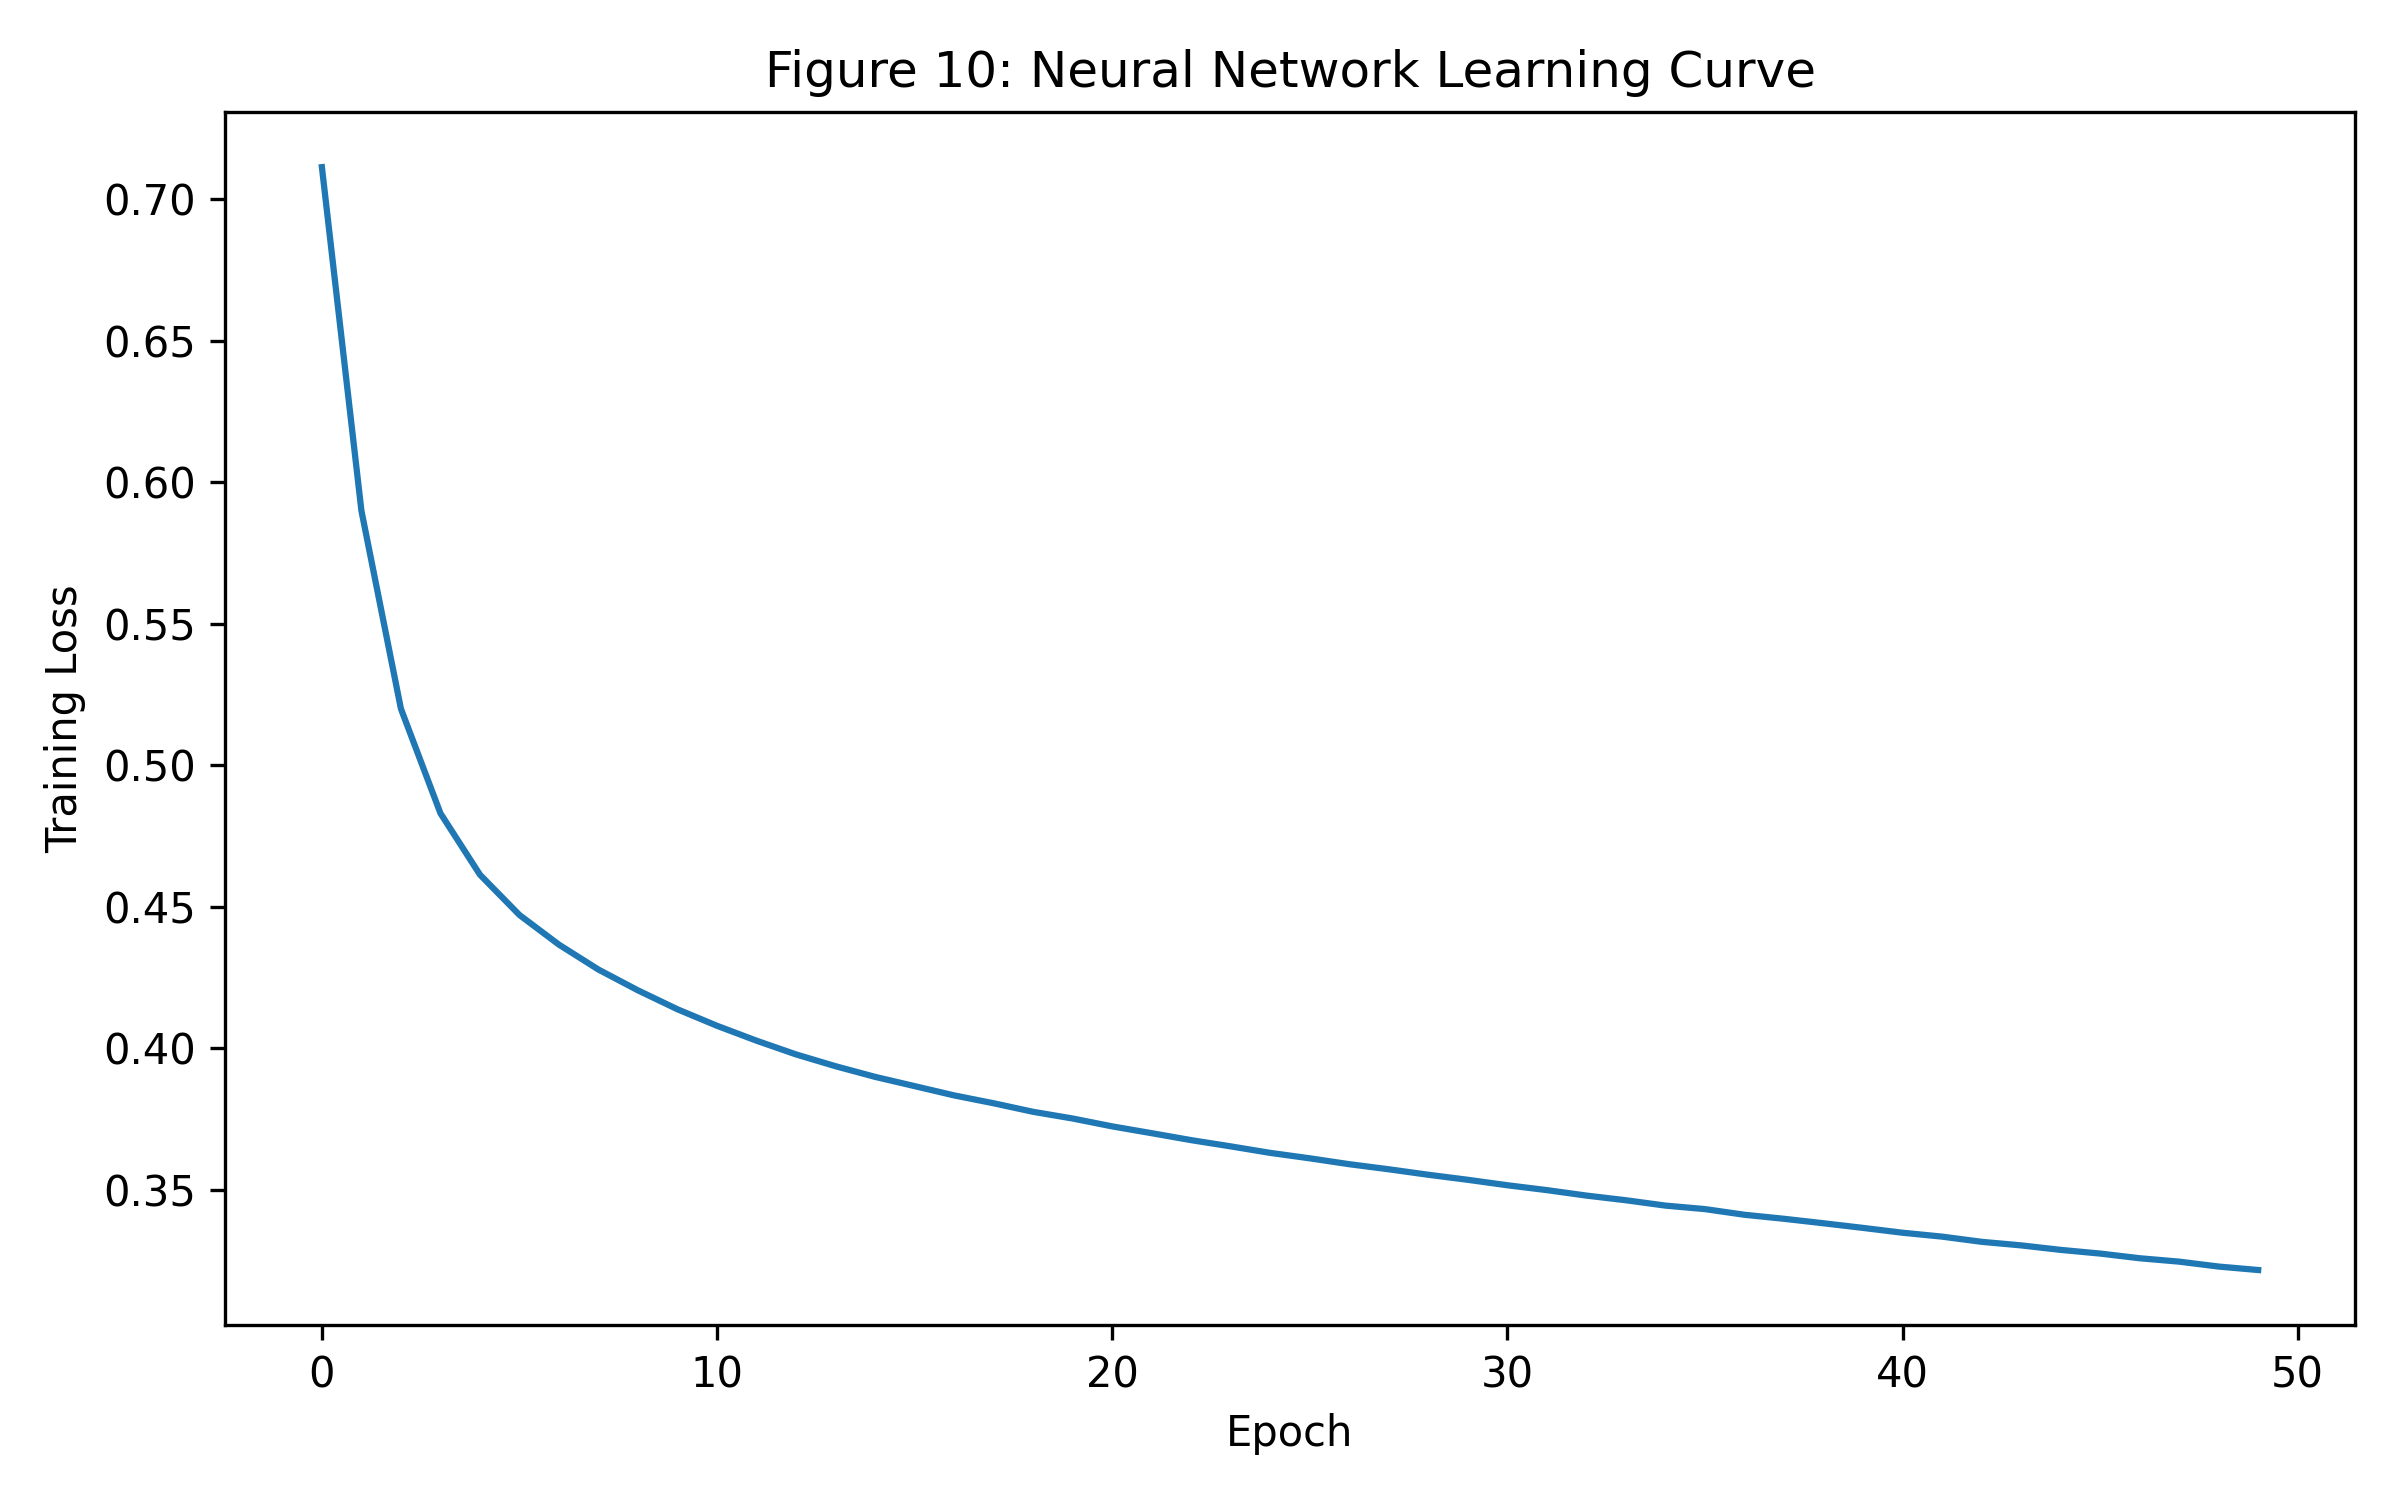
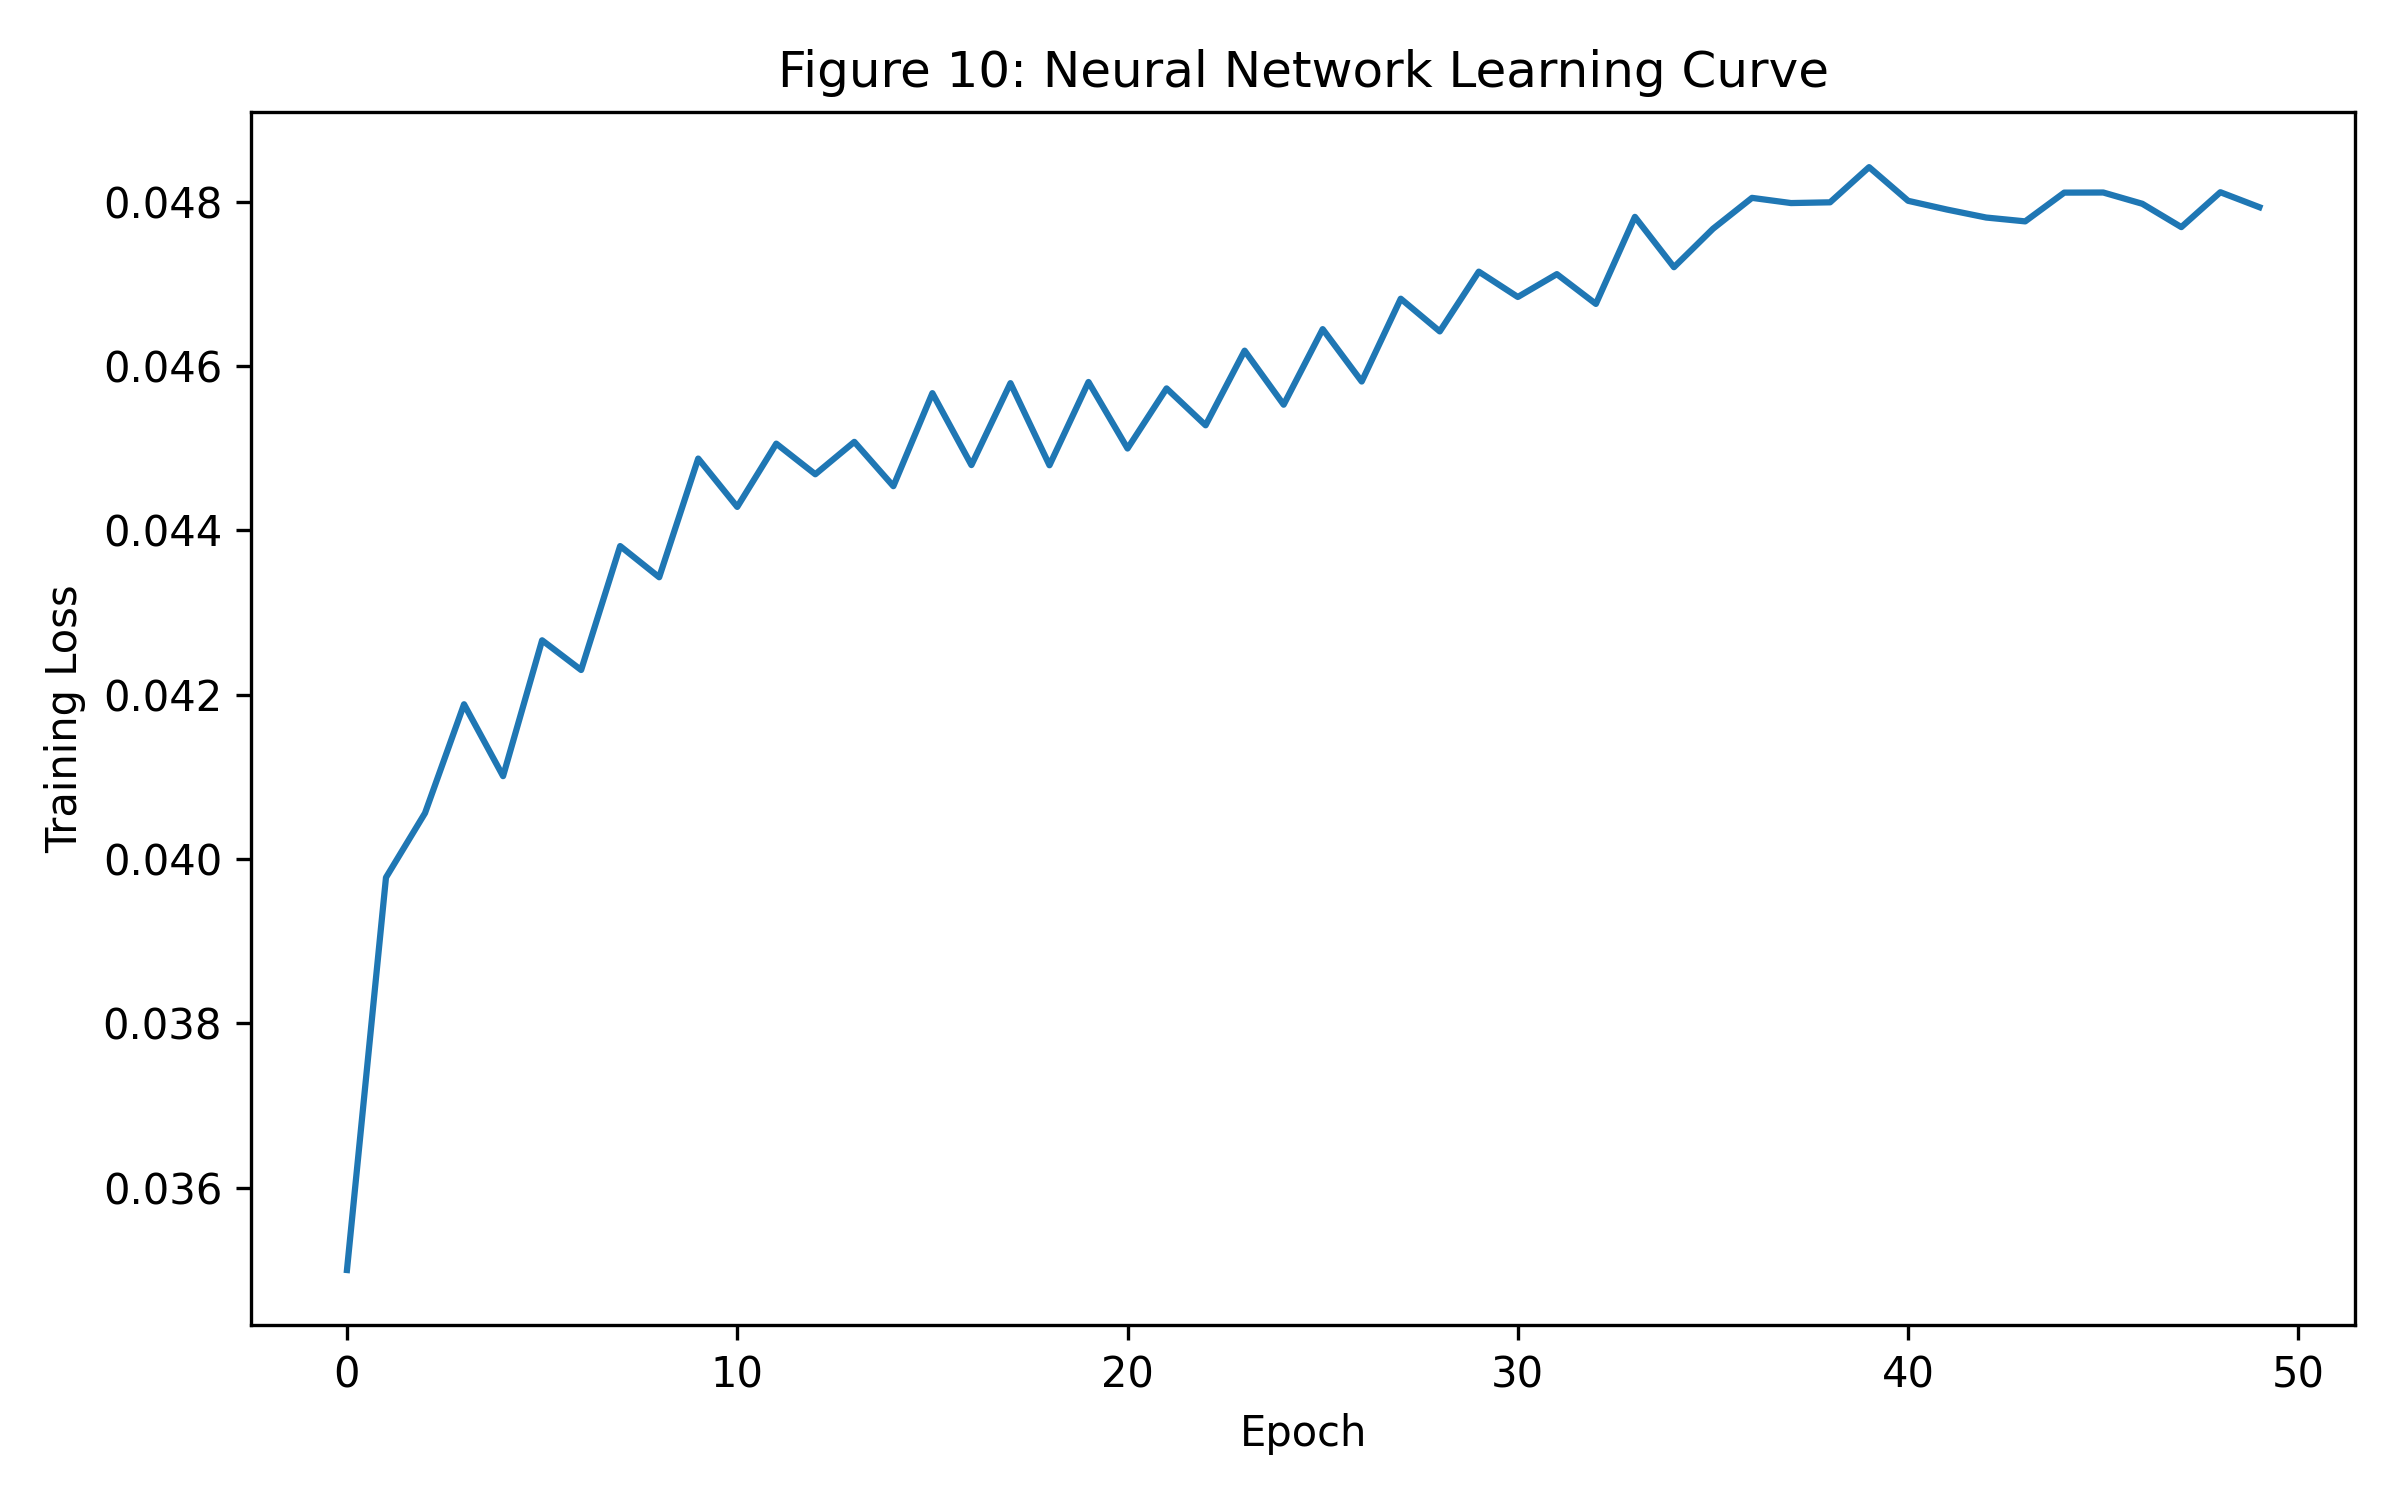
Final assessment improvements and updated report

diff --git a/customer-churn-prediction-ml/churn_prediction_project.py b/customer-churn-prediction-ml/churn_prediction_project.py
@@ -266,7 +266,7 @@ def generate_evaluation_figures(X, X_test_scaled, y_test, models, results_df):
 
     nn = MLPClassifier(
         hidden_layer_sizes=(64, 32),
-        max_iter=1,
+        max_iter=500,
         warm_start=True,
         random_state=42
     )